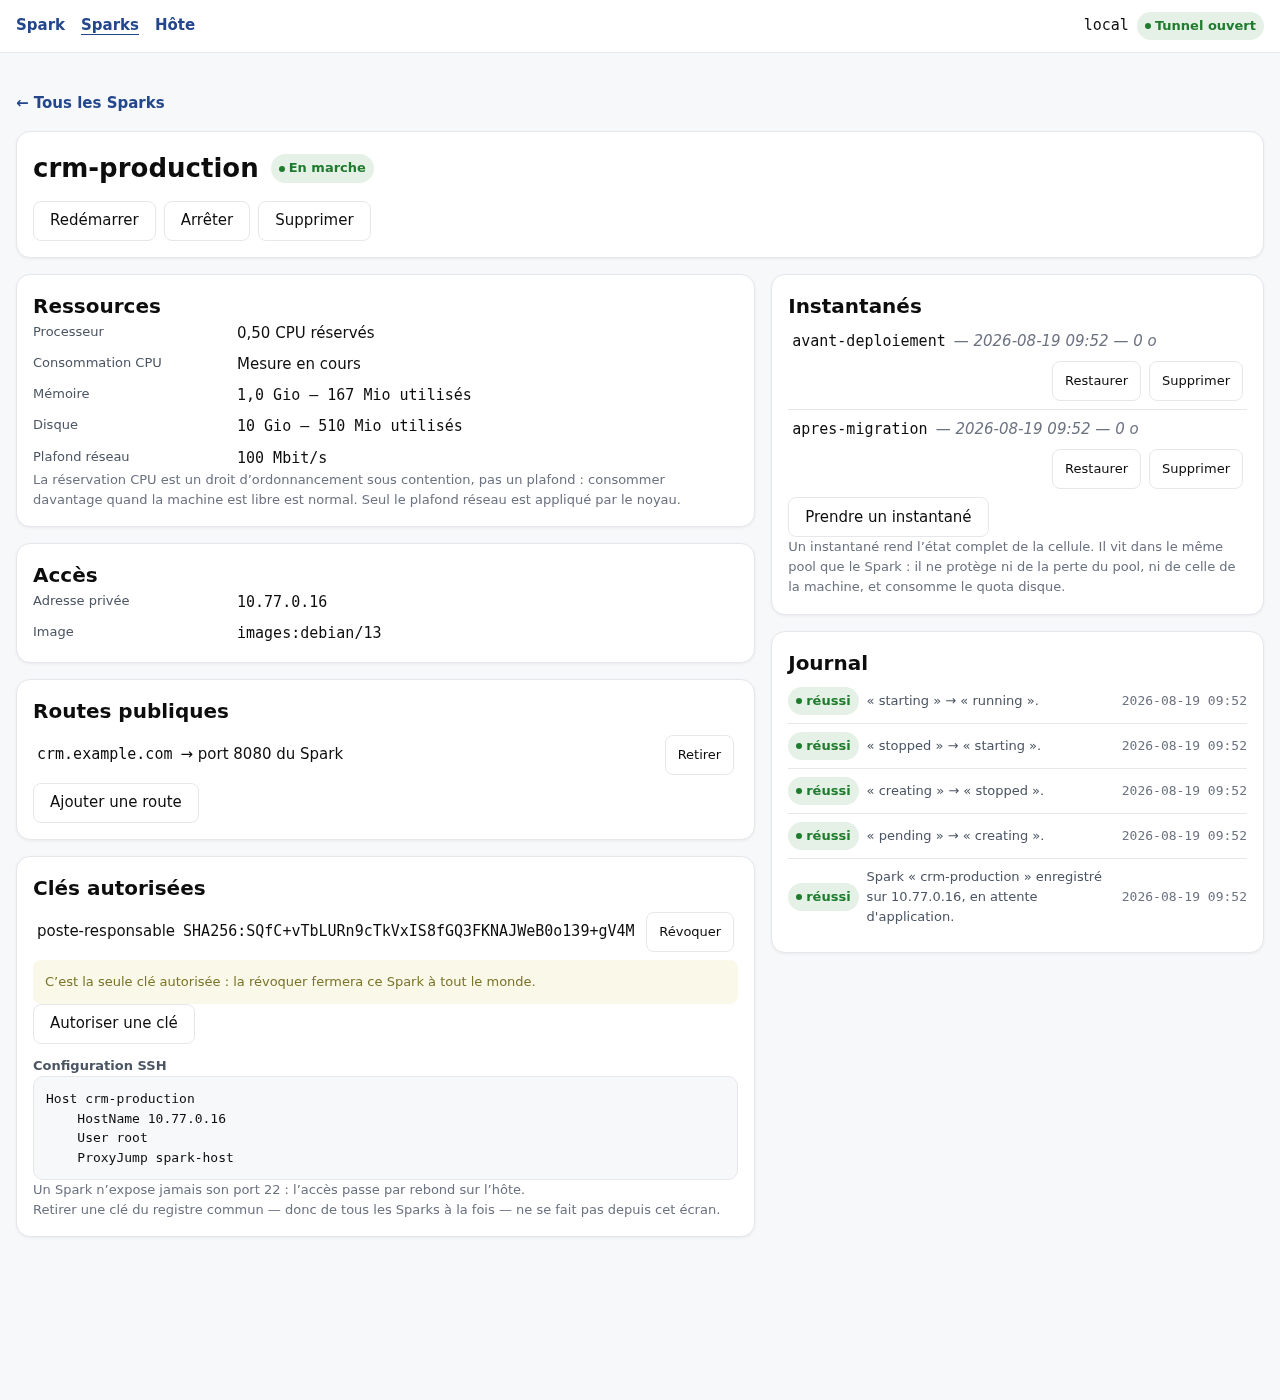
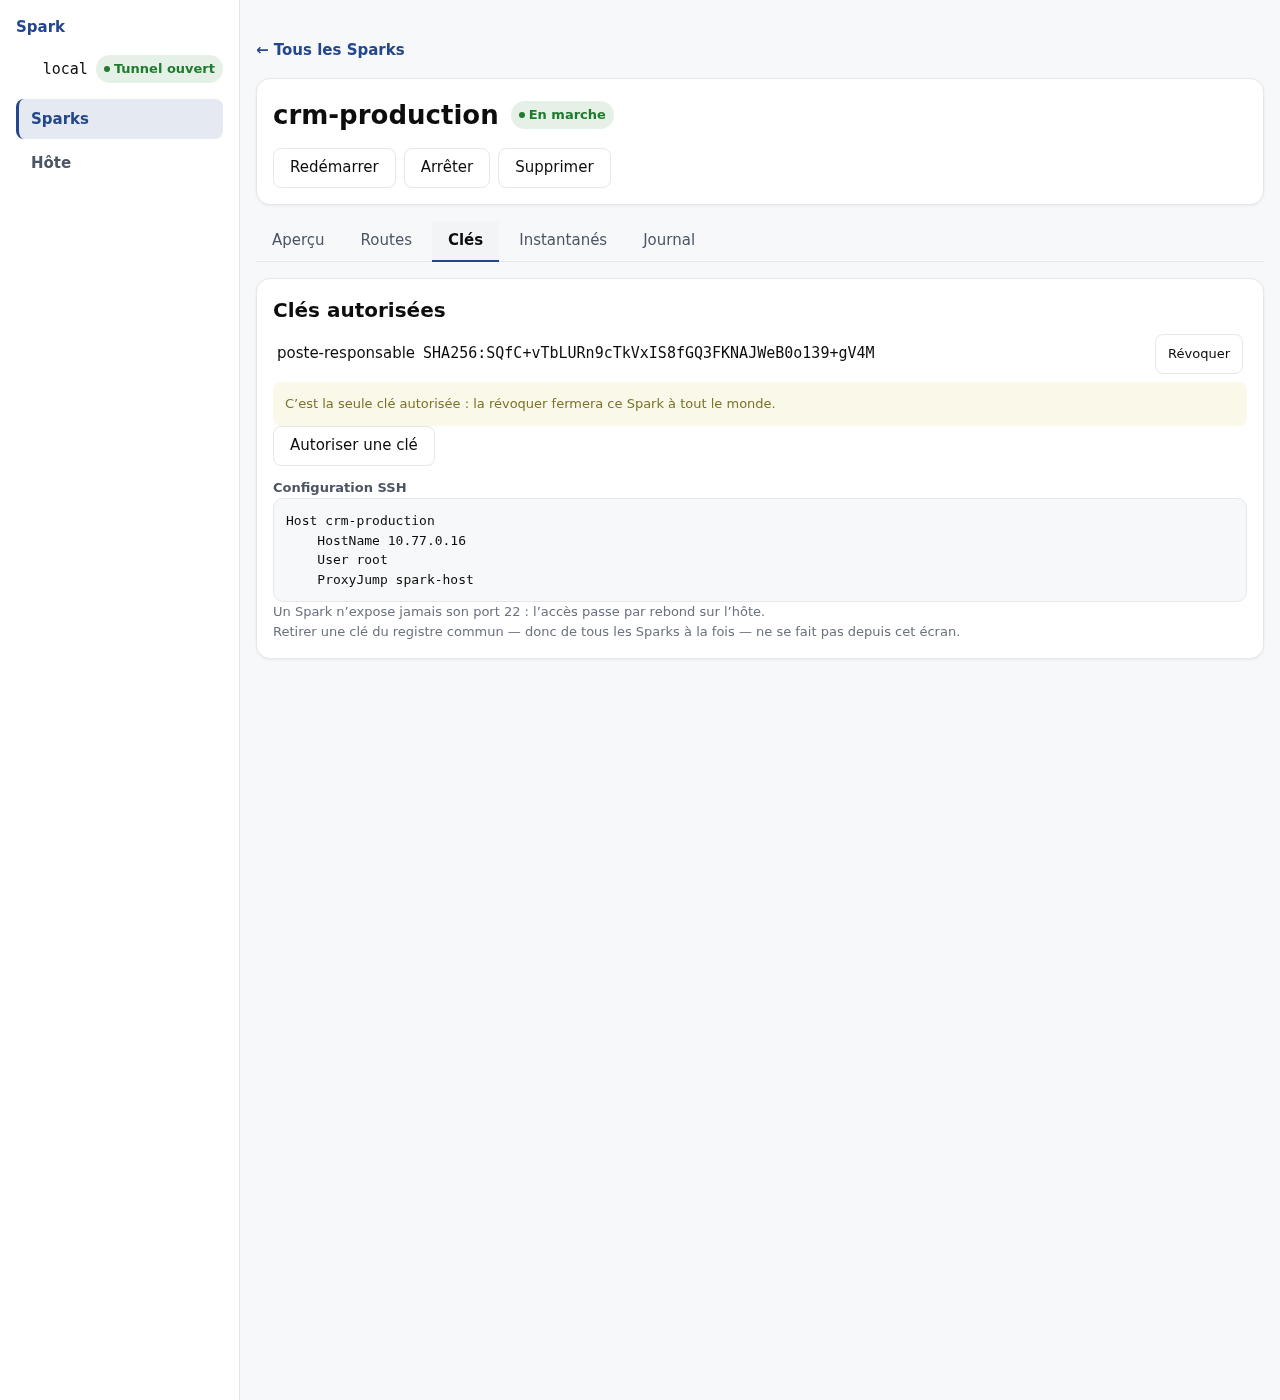
Met le manuel au niveau des trois degrés
M3 décrit la façon de se repérer : trois niveaux, chacun avec sa forme, et le
serveur courant au-dessus parce qu'il n'est pas une destination. M8 dit où
trouver quoi dans la fenêtre d'un Spark, et pourquoi les commandes de cycle de
vie restent au-dessus des onglets.

Le harnais d'illustrations navigue désormais jusqu'à la facette qu'il illustre :
il échouait, ce qui est le comportement voulu — une image périmée aurait été
pire.

diff --git a/docs/manuel/M3-console.md b/docs/manuel/M3-console.md
@@ -22,6 +22,27 @@ passe, ni clé : l'authentification appartient à votre configuration SSH. Un ch
 qui ressemble à un secret est refusé à l'écriture plutôt que filtré en silence,
 pour que vous sachiez le retirer d'où vous l'aviez copié.
 
+## Se repérer
+
+La console a **trois niveaux**, et la forme de chacun dit ce qui va changer quand
+vous cliquez :
+
+| Niveau | Ce que c'est | Forme |
+|---|---|---|
+| 1 | les destinations — Sparks, Hôte | barre latérale, à gauche |
+| 2 | les sous-parties d'une destination — Pools, Images sous Hôte | onglets |
+| 3 | un Spark ouvert, avec ses facettes — Aperçu, Routes, Clés, Instantanés, Journal | onglets de sa fenêtre |
+
+Le **serveur courant** et l'état de son tunnel sont au-dessus de la barre
+latérale : ce n'est pas une destination, c'est le contexte de toutes les
+destinations. On ne « va » pas au serveur comme on va aux Sparks.
+
+Chaque onglet a sa propre adresse. Vous pouvez donc recharger la page sur
+« Instantanés », ou en partager le lien.
+
+Sous 1024 px, la barre latérale passe en haut. Elle garde ses libellés : un
+pictogramme seul n'est pas une navigation.
+
 ## L'état du tunnel
 
 La console **ouvre elle-même** le tunnel du serveur courant à son démarrage, et

diff --git a/docs/manuel/M8-exploiter.md b/docs/manuel/M8-exploiter.md
@@ -1,5 +1,22 @@
 # M8 · Exploiter au quotidien
 
+## Où trouver quoi
+
+La fenêtre d'un Spark est découpée en **facettes**, chacune avec son propre
+onglet :
+
+| Onglet | Ce qu'on y lit |
+|---|---|
+| Aperçu | l'identité, les ressources, l'adresse privée |
+| Routes | les domaines publics qui pointent vers ce Spark |
+| Clés | les clés autorisées et la configuration SSH |
+| Instantanés | les points de retour arrière |
+| Journal | ce qui s'est passé sur ce Spark |
+
+Les commandes de cycle de vie — démarrer, arrêter, supprimer — restent
+au-dessus des onglets : elles concernent le Spark entier, pas une de ses
+facettes.
+
 ## Les commandes disponibles
 
 L'écran détail n'affiche que les commandes **réellement acceptables** dans l'état
